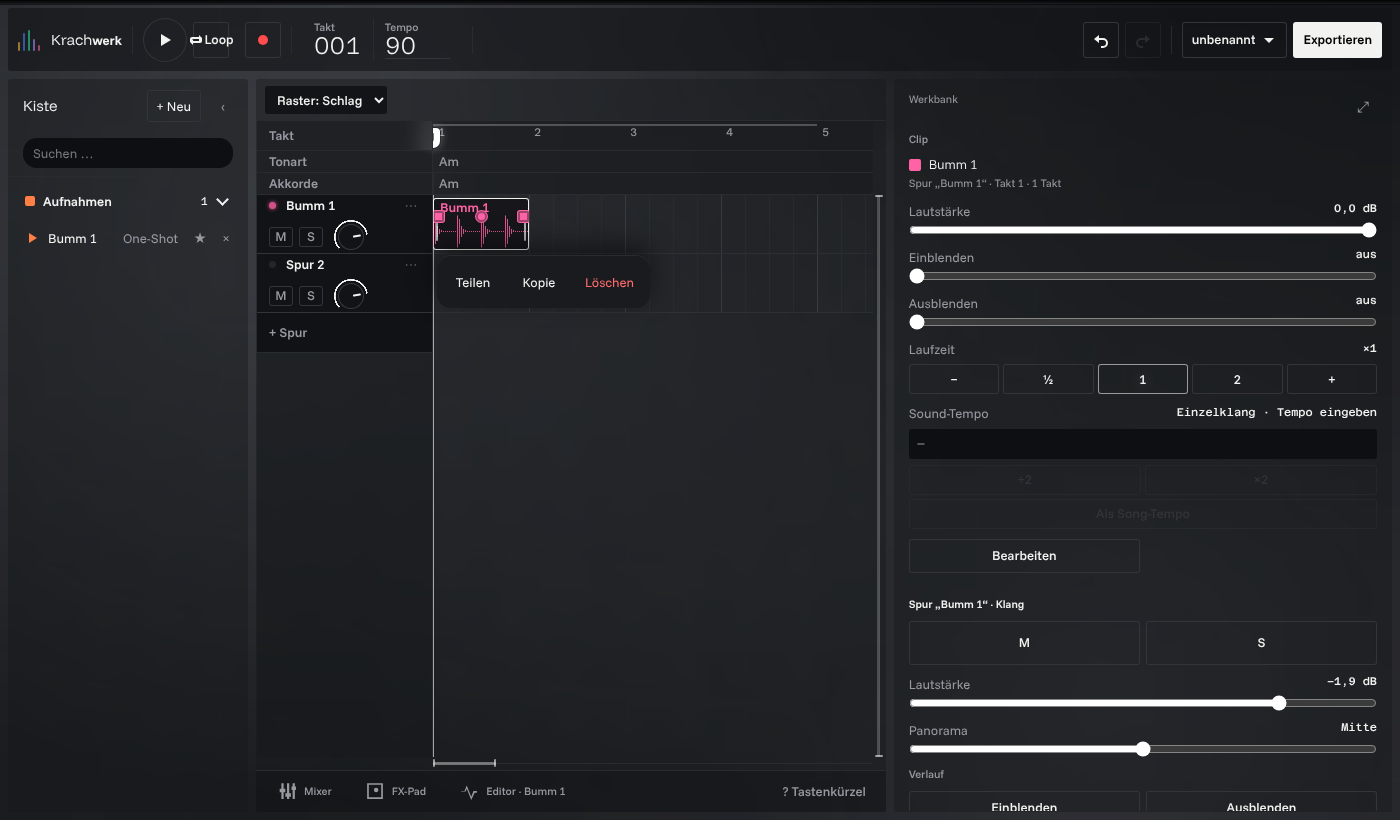
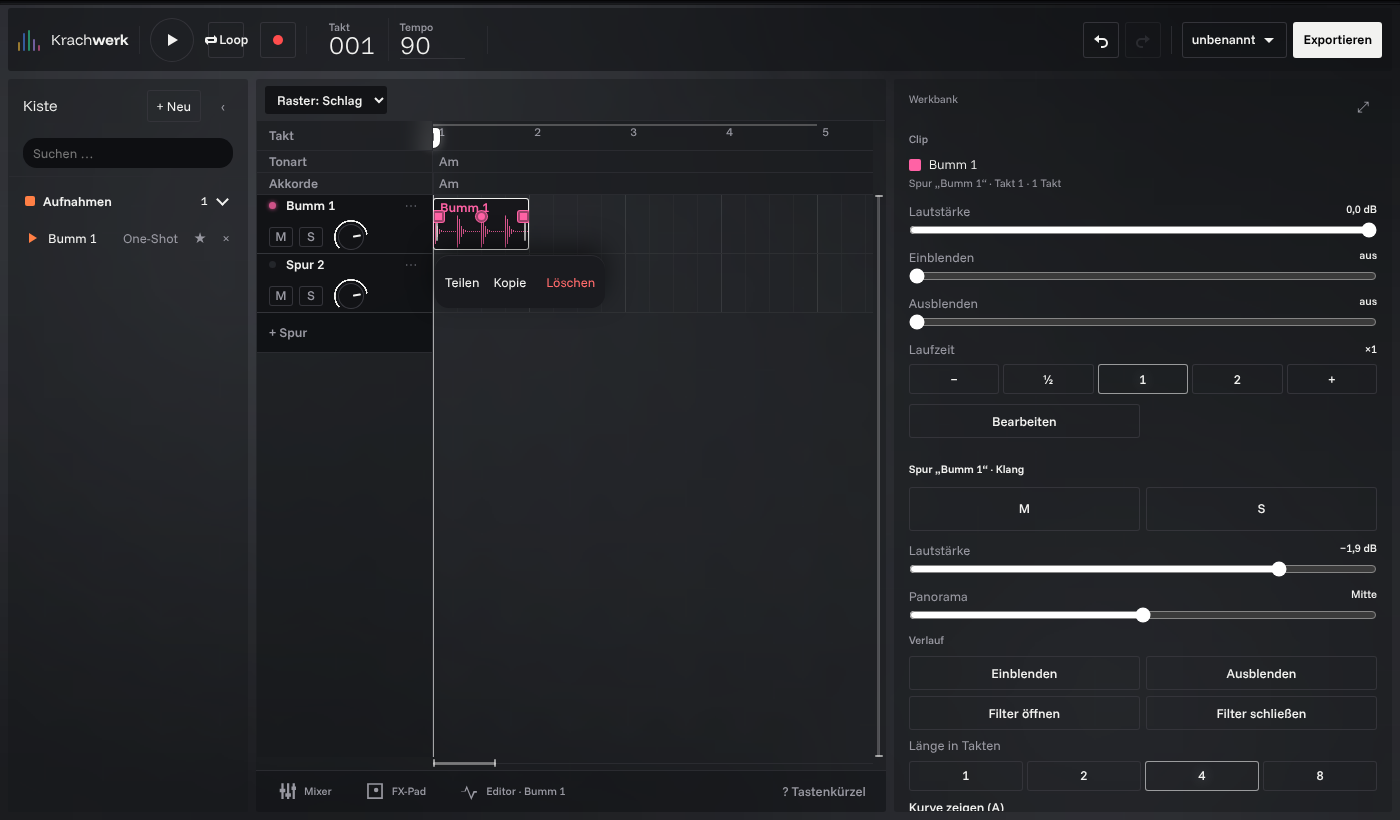
Krachwerk 1: Auflagen der CD-Durchsicht
- Werkzeug am Clip bleibt im Spurbereich (deckt keine Spurköpfe), am Handy
  Werkbank · Teilen · Kopie · Löschen
- ⤢: Kiste klappt zu, Werkbank 60 % des Raums rechts davon, Song zeigt 4 Takte
- Leerer Start: leise Zeile in Spur 1, leere Kiste „Noch nichts aufgenommen“
- Tonart-/Akkordzeile am Handy erst bei Wechseln; Zwilling: Schalter
  „Tonart und Akkorde“ im Song-Fach (gemerkt), damit Wechsel anlegbar bleiben
- Werkbank ohne gesperrte Knöpfe, Wort-Werte in Sans; Wortmarke einheitlich
- Test 64 Prüfungen; Zählung Desktop 57/33/4, Handy 17/8/4

Claude-Session: https://claude.ai/code/session_011dt3cfyoFbmfWywTqCQhnG

diff --git a/index.html b/index.html
@@ -2851,7 +2851,7 @@
   /* Schrift: nur die Skala, Sans; Mono nur für Zahlen; Etiketten ohne Versalien */
   #app[data-density="calm"] * { font-family: var(--font-body); font-size: var(--fs-13); letter-spacing: 0; text-transform: none; }
   #app[data-density="calm"] :is(.lcd-label, .insp-kind, .insp-meta, .insp-sub, .create-sec, .shelf-count, .shelf-total, .tab, .tab-label, .ccard-sub, .bar-mark, .hint-text, .fxl-sum, .fx-param, .insp-row, .insp-row output) { font-size: var(--fs-11); }
-  #app[data-density="calm"] :is(.lcd-value, .shelf-count, .shelf-total, output, .bar-mark, .insp-tempo output, input[type="number"]) { font-family: var(--font-mono); }
+  #app[data-density="calm"] :is(.lcd-value, .shelf-count, .shelf-total, .bar-mark, .insp-tempo output, input[type="number"]) { font-family: var(--font-mono); }
   #app[data-density="calm"] :is(.insp-title, .left-title, .deck-name, .dock-head h2, .brand-name) { font-family: var(--font-display); font-size: var(--fs-15); }
   #app[data-density="calm"] .lcd-value { font-size: var(--fs-24); }
   /* Rahmen nur an Tasten: Flächen, Abschnitte, Regler, Felder und Etiketten verlieren Rahmen und Ring */
@@ -2862,10 +2862,16 @@
   #app[data-density="calm"].playing .key.play, #app[data-density="calm"] .key.play.on { background: var(--amber); color: var(--accent-ink); }
   /* Werkzeug am Clip (src/ui/clip-float.js) */
   #app[data-density="calm"] .clip-float { position: absolute; z-index: 8; display: flex; gap: 2px; padding: 4px; border-radius: var(--radius-lg); background: var(--sheet-bg); box-shadow: var(--sheet-shadow); }
-  #app[data-density="calm"] .cf-btn { min-width: 64px; height: 44px; padding: 0 12px; border: 0; border-radius: var(--radius); background: transparent; color: var(--ink); cursor: pointer; }
+  #app[data-density="calm"] .cf-btn { min-width: 44px; height: 44px; padding: 0 6px; border: 0; border-radius: var(--radius); background: transparent; color: var(--ink); cursor: pointer; }
   #app[data-density="calm"] .cf-btn:hover:not(:disabled) { background: var(--deck-2); }
   #app[data-density="calm"] .cf-btn:disabled { opacity: 0.4; cursor: default; }
-  #app[data-density="calm"] .cf-del { color: var(--danger); }
+  #app[data-density="calm"] .cf-del { color: var(--danger); margin-left: 6px; }
+  /* Werkbank: nichts Gesperrtes zeigen; Wörter in Sans (Zahlen bleiben tabellarisch) */
+  #app[data-density="calm"] .insp :is(button, input):disabled { display: none; }
+  #app[data-density="calm"] output { font-variant-numeric: tabular-nums; }
+  #app[data-density="calm"] :is(.brand-name, .brand-name b) { font-family: var(--font-display); font-size: var(--fs-15); }
+  /* Leerer Song: leise Zeile in Spur 1 */
+  #app[data-density="calm"].song-empty .track-row:first-child .lane::after { content: "● tippen, dann ein Geräusch machen"; position: absolute; left: 12px; top: 50%; transform: translateY(-50%); z-index: 1; color: var(--muted); font-size: var(--fs-13); pointer-events: none; white-space: nowrap; }
   /* Werkbank: Spur stumm/solo */
   #app[data-density="calm"] .insp-ms { display: grid; grid-template-columns: 1fr 1fr; gap: 6px; }
   #app[data-density="calm"] .insp-ms .key { width: 100%; height: 44px; }
@@ -2876,7 +2882,7 @@
   @media (min-width: 761px) {
     #app[data-density="calm"] { --insp-w: 24px; --kiste-w: 240px; grid-template-columns: var(--kiste-w) minmax(0, 1fr) var(--insp-w); }
     #app[data-density="calm"].insp-open { --insp-w: 36%; }
-    #app[data-density="calm"].insp-open.wb-wide { --insp-w: 60%; }
+    #app[data-density="calm"].insp-open.wb-wide { --kiste-w: 24px; --insp-w: calc((100% - var(--kiste-w)) * 0.6); }
     #app[data-density="calm"].kiste-zu { --kiste-w: 24px; }
     #app[data-density="calm"] .insp { position: relative; inset: auto; width: auto; z-index: auto; box-shadow: none; }
     #app[data-density="calm"]:not(.insp-open) .insp > :not(.insp-toggle) { display: none; }
@@ -2885,12 +2891,13 @@
     #app[data-density="calm"] .insp-wide { position: absolute; top: 4px; right: 6px; z-index: 2; width: 44px; height: 44px; border: 0; background: transparent; color: var(--muted); font-size: var(--fs-15); cursor: pointer; }
     #app[data-density="calm"] .insp-wide:hover, #app[data-density="calm"] .insp-wide[aria-pressed="true"] { color: var(--ink); }
     #app[data-density="calm"] .tabbar { overflow: hidden; white-space: nowrap; }
+    #app[data-density="calm"] #loop-btn { padding: 0 12px; margin-left: 8px; }
     #app[data-density="calm"] .left-tabs { display: flex; align-items: center; gap: 6px; padding: 10px 8px 4px 14px; }
     #app[data-density="calm"] .left-title { margin: 0 auto 0 0; }
     #app[data-density="calm"] .kiste-btn { display: inline-flex; align-items: center; justify-content: center; height: 32px; min-width: 32px; padding: 0 10px; border: 0; border-radius: var(--radius); background: transparent; box-shadow: var(--key-shadow); color: var(--ink); cursor: pointer; }
     #app[data-density="calm"] .kiste-fold { box-shadow: none; color: var(--muted); }
-    #app[data-density="calm"].kiste-zu .shelf > :not(.left-tabs), #app[data-density="calm"].kiste-zu .left-tabs > :not(.kiste-fold) { display: none; }
-    #app[data-density="calm"].kiste-zu .left-tabs { padding: 10px 0 0; justify-content: center; }
+    #app[data-density="calm"]:is(.kiste-zu, .insp-open.wb-wide) .shelf > :not(.left-tabs), #app[data-density="calm"]:is(.kiste-zu, .insp-open.wb-wide) .left-tabs > :not(.kiste-fold) { display: none; }
+    #app[data-density="calm"]:is(.kiste-zu, .insp-open.wb-wide) .left-tabs { padding: 10px 0 0; justify-content: center; }
   }
   /* Schmal: Werkbank als Schublade, Daumenleiste (Kiste · ▶ · ● · Werkbank), Deck als Lesezeile */
   @media (max-width: 760px) {
@@ -3351,7 +3358,7 @@
       </div>
       <div class="song-mst" id="song-mst-slot"></div>
       <div class="song-main" id="song-main"></div>
-      <div class="song-links" id="song-links" role="group" aria-label="Weitere Songbefehle"></div>
+      <div class="song-links" id="song-links" role="group" aria-label="Weitere Songbefehle"><button class="key" id="harm-btn" type="button" aria-pressed="false" hidden>Tonart und Akkorde</button></div>
       <div class="song-foot" id="song-foot"><p class="song-private">Private use only</p></div>
     </div>
   </section>

diff --git a/src/ui/clip-float.js b/src/ui/clip-float.js
@@ -25,10 +25,10 @@ export function mountClipFloat({ store, ui, tools }) {
     bar.append(b);
     return b;
   };
+  const wbBtn = add('cf-werkbank', 'Werkbank', 'Werkbank für diesen Clip öffnen', () => ui.setDock('werkbank'));
   const splitBtn = add('cf-split', 'Teilen', 'Clip an der Abspielmarke teilen (T)', () => tools.split());
   add('cf-dup', 'Kopie', 'Kopie direkt dahinter legen (Strg+D)', () => tools.duplicate());
   add('cf-del', 'Löschen', 'Clip löschen (Entf) – Rückgängig holt ihn zurück', () => tools.remove(), 'cf-del');
-  const wbBtn = add('cf-werkbank', 'Werkbank', 'Werkbank für diesen Clip öffnen', () => ui.setDock('werkbank'));
   wrap.append(bar);
 
   let raf = 0;
@@ -55,10 +55,9 @@ export function mountClipFloat({ store, ui, tools }) {
     let y = c.top - bh - GAP;
     if (y < top + 2) y = c.bottom + GAP;
     if (outside || y + bh > w.bottom - 2) { bar.hidden = true; return; }
-    // Möglichst rechts von den Spurköpfen, sonst bündig am rechten Rand
-    const maxX = w.right - bw - 4;
-    const minX = Math.max(w.left + 4, scroll.querySelector('.corner')?.getBoundingClientRect().right + 4 || 0);
-    const x = Math.max(w.left + 4, Math.max(Math.min(c.left, maxX), Math.min(minX, maxX)));
+    // Nur im Spurbereich: nie links der Kante der Spurköpfe; passt es nicht, bündig am rechten Rand
+    const minX = Math.max(w.left + 4, (scroll.querySelector('.corner')?.getBoundingClientRect().right ?? 0) + 2);
+    const x = Math.max(minX, Math.min(c.left, w.right - bw - 4));
     bar.style.left = `${Math.round(x - w.left)}px`;
     bar.style.top = `${Math.round(y - w.top)}px`;
   }

diff --git a/src/ui/arranger.js b/src/ui/arranger.js
@@ -1,7 +1,7 @@
 // Arranger: Spurköpfe links, Taktraster rechts. Clips verschieben, kürzen, verlängern, kopieren (Alt/Strg),
 // Lautstärke und Fades direkt am Clip über Griffe auf der Hüllkurve.
 
-import { anySoloOf, audibleRanges, clipEnvelope, clipGain, clipSegments, clipSignature, fadeCurveOf, fadeHandlePoint, groupOf, isAbove, sampleFor, totalBeats, trackState, MAX_TRACKS, EPS } from '../model.js';
+import { anySoloOf, audibleRanges, chordsOf, keyChangesOf, clipEnvelope, clipGain, clipSegments, clipSignature, fadeCurveOf, fadeHandlePoint, groupOf, isAbove, sampleFor, totalBeats, trackState, MAX_TRACKS, EPS } from '../model.js';
 import { clamp, el, trackPointer } from '../util.js';
 import { AUTO_PARAMS, laneOf } from '../automation.js';
 import { makeKnob } from './knob.js';
@@ -740,6 +740,10 @@ export function mountArranger({ root, store, engine, library, ui }) {
     renderRuler();
     keyRow.render();
     chordRow.render();
+    // Stufe 3 (calm, Handy), solange es keine Tonart- bzw. Akkordwechsel gibt; Zwilling: Song-Fach
+    for (const [r, has] of [[keyRow.row, keyChangesOf(p).length], [chordRow.row, chordsOf(p).length]]) {
+      if (has || root.closest('#app')?.classList.contains('harmony-on')) { delete r.dataset.tier; delete r.dataset.tierOnly; } else { r.dataset.tier = '3'; r.dataset.tierOnly = 'narrow'; }
+    }
     syncRows();
     for (const t of p.tracks) renderLane(rows.get(t.id), t);
     autoLanes.render();

diff --git a/src/main.js b/src/main.js
@@ -559,6 +559,22 @@ async function boot() {
   // Dichte „calm“: Werkzeug am Clip statt Clip-Leiste und Deck-Gruppe
   if (EDITION.density === 'calm') mountClipFloat({ store, ui, tools });
   const sheets = mountSheets({ ui, arranger });
+  // Ruhige Dichte: Tonart- und Akkordzeile am Handy erst bei Wechseln – oder auf Wunsch über das Song-Fach (gemerkt)
+  if (EDITION.density === 'calm') {
+    const btn = document.getElementById('harm-btn');
+    const app = document.getElementById('app');
+    const set = (on) => {
+      app.classList.toggle('harmony-on', on);
+      btn.setAttribute('aria-pressed', String(on));
+      try { localStorage.setItem(lsKey('loopwerk.harmony'), on ? '1' : '0'); } catch { /* egal */ }
+      arranger.render();
+    };
+    btn.hidden = false;
+    btn.addEventListener('click', () => set(!app.classList.contains('harmony-on')));
+    let on = false;
+    try { on = localStorage.getItem(lsKey('loopwerk.harmony')) === '1'; } catch { /* Standard */ }
+    if (on) set(true);
+  }
   const tips = EDITION.surfaces.tips === false ? null : mountTips({ ui, store });
 
   let saveTimer = null;

diff --git a/src/edition.js b/src/edition.js
@@ -22,6 +22,7 @@ export const EDITIONS = {
       'zoom-in': 'Strg+Rad, zwei Finger', 'zoom-out': 'Strg+Rad, zwei Finger', 'zoomy-in': 'Alt+Rad, zwei Finger', 'zoomy-out': 'Alt+Rad, zwei Finger',
       'select-btn': 'lange drücken', 'select-all-btn': 'Strg+A', '.ltab': '+ Neu in der Kiste',
       '.tbtn-mute': 'Werkbank Spur (M)', '.tbtn-solo': 'Werkbank Spur (S)', '.track-vol-wrap': 'Werkbank Spur (Lautstärke)',
+      '.key-row': 'Song-Fach (Tonart und Akkorde)', '.chord-row': 'Song-Fach (Tonart und Akkorde)',
       'clipbar': 'Werkzeug am Clip', 'split-btn': 'Werkzeug am Clip', 'dup-btn': 'Werkzeug am Clip', 'del-btn': 'Werkzeug am Clip',
       'mixer-btn': 'Song-Fach (Mischen)', 'fxpad-btn': 'Song-Fach (FX-Pad)', 'editor-tab': 'Werkbank (Bearbeiten)', 'tab-song': 'Tipp auf das Deck',
     },

diff --git a/src/ui/layout.js b/src/ui/layout.js
@@ -74,6 +74,10 @@ export function mountLayout({ store, ui, library, editName = () => '' }) {
   const setProject = popup($('project-menu-btn'), $('project-menu'), { onOpen: () => requestAnimationFrame(() => $('project-name').select?.()) });
   const showName = () => { $('project-menu-name').textContent = store.project.name || 'Projekt'; $('deck-name').textContent = store.project.name || 'Song'; };
   store.on(showName);
+  // Leere Spuren: leise Zeile in Spur 1 (CSS, nur calm)
+  const syncEmpty = () => app.classList.toggle('song-empty', store.project.tracks.every((t) => !t.clips.length));
+  store.on(syncEmpty);
+  syncEmpty();
   showName();
   // Öffnen, Beispiel und Leeren schließen das Menü (Leeren erst nach der Bestätigung)
   $('open-btn').addEventListener('click', () => setProject(false));

diff --git a/src/ui/library.js b/src/ui/library.js
@@ -221,7 +221,7 @@ export function mountLibrary({ root, library, store, engine, ui, arranger, onDel
     totalEl.textContent = shown.length === all.length ? `${all.length}` : `${shown.length} von ${all.length}`;
 
     if (!shown.length) {
-      root.append(el('p', 'shelf-empty', filter === 'fav' && !q
+      root.append(el('p', 'shelf-empty', groupBy && !q && filter === 'all' ? 'Noch nichts aufgenommen' : filter === 'fav' && !q
         ? 'Noch keine Favoriten. Markiere Sounds mit dem Stern.'
         : `Keine Sounds gefunden${q ? ` für „${search.value.trim()}“` : ''}.`));
       return;

diff --git a/src/ui/inspector.js b/src/ui/inspector.js
@@ -365,6 +365,7 @@ export function mountInspector({ root, store, ui, library, tools, engine, master
       const own = hasOwnTempo(s);
       stIn.hidden = !own;
       stBtns.hidden = !own;
+      stempo.hidden = calm && !(own && soundBpm(s)); // Einzelklang hat kein Sound-Tempo: Block weglassen
       const sb = own ? soundBpm(s) : null;
       const fixed = store.project.sampleTempo?.[s?.id] != null;
       stOut.textContent = !s ? '' : !own ? (s.def || s.make ? 'folgt dem Song' : '–') : sb ? `${fmtBpm(sb)} BPM · ${fmtBeats(s.beats)}` : 'Einzelklang · Tempo eingeben';
